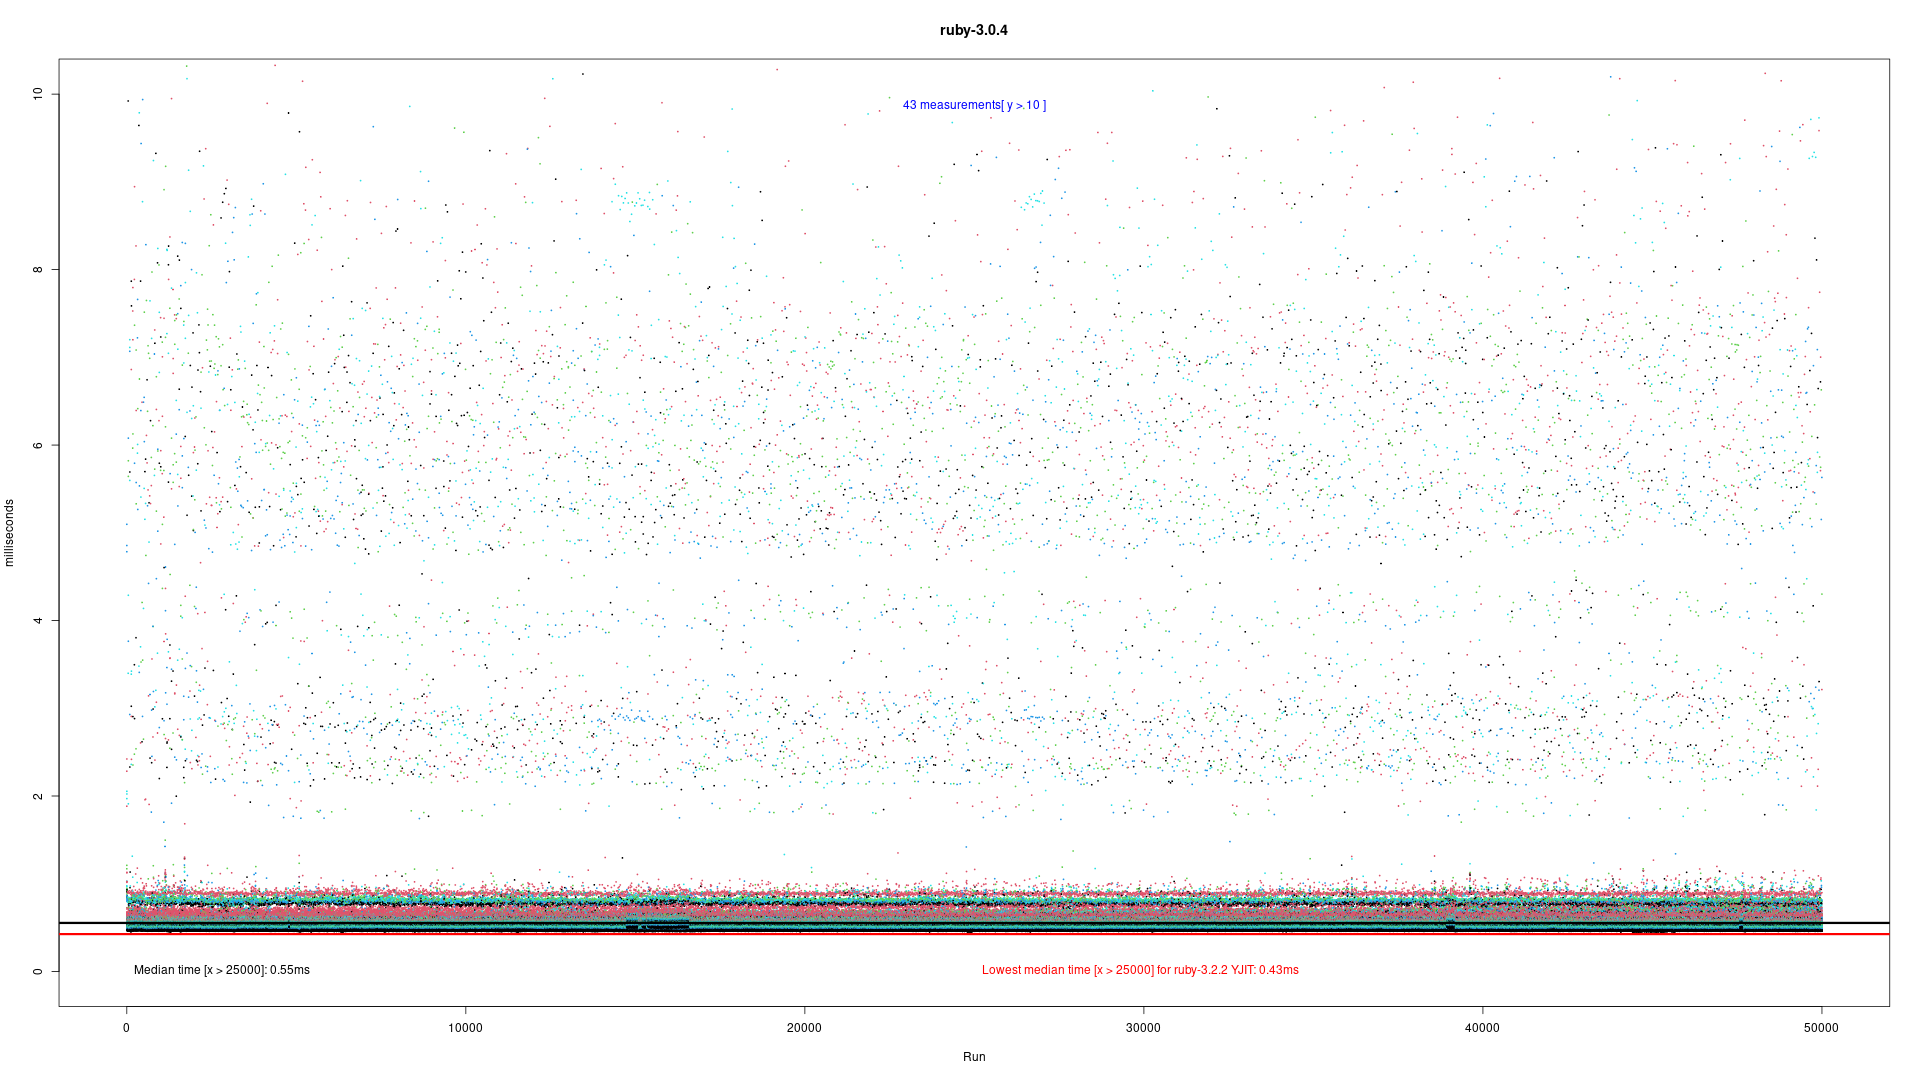
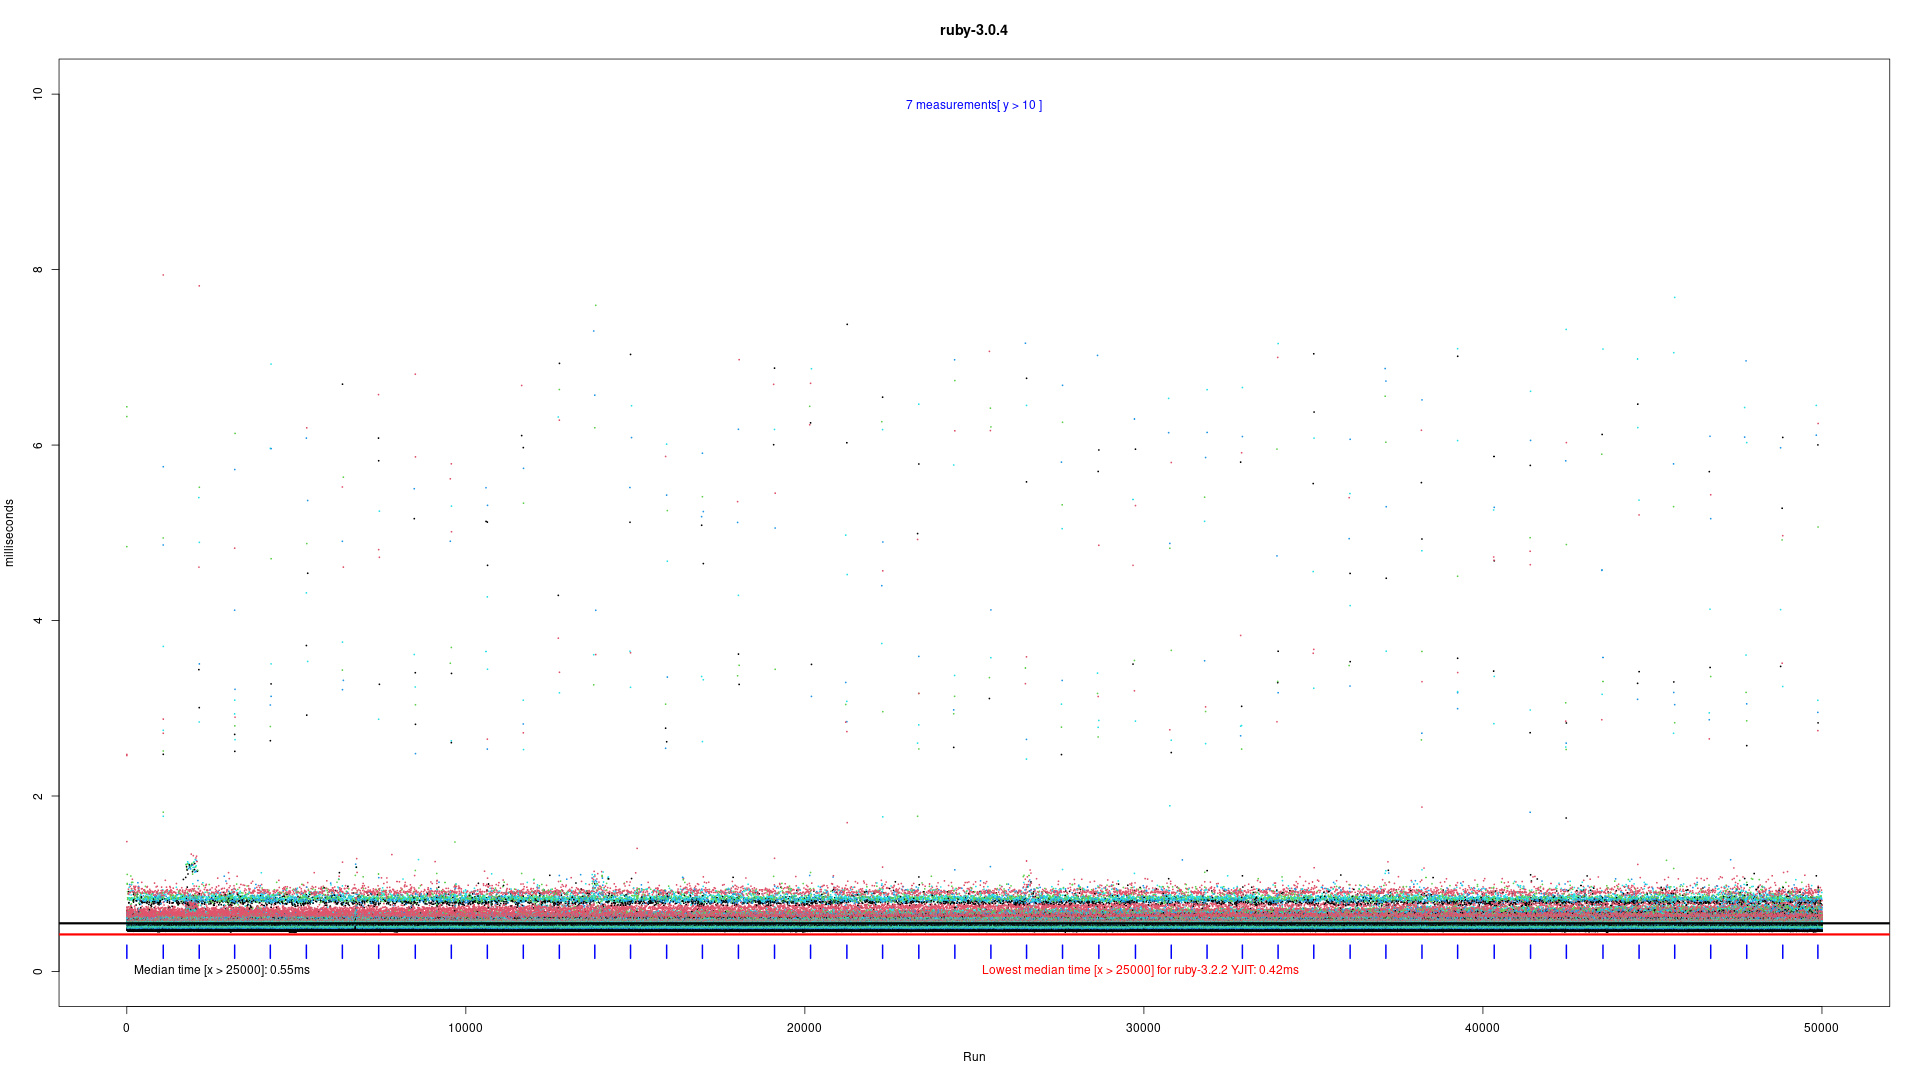
Updated results for Rodauth app MRI Rubies 3.0 - 3.3, added memory plots

Changed region(s): [[0.0625, 0.7944, 0.9688, 0.8861], [0.4688, 0.0917, 0.5312, 0.1222]]

diff --git a/data/rodauth/README.md b/data/rodauth/README.md
@@ -20,23 +20,23 @@ CPU: AuthenticAMD AMD Ryzen 7 5800X 8-Core Processor
 ## Tested Rubies
 | Ruby                      | JIT  | Mem start |   Mem end |   Runtime |      Mean |    Median |   Std.Dev |     Slow |   Errors |        N |  GC runs |
 | ------------------------- | ---- | --------: | --------: | --------: | --------: | --------: | --------: |--------: | -------: | -------: | -------: |
-| ruby-3.0.4                |      |      35Mb |      41Mb |      154s |    0.61ms |    0.55ms |    0.51ms |     4422 |        0 |   750000 |     1087 |
-| ruby-3.1.3                |      |      37Mb |      43Mb |      157s |    0.62ms |    0.56ms |    0.56ms |     5872 |        0 |   750000 |     1360 |
-| ruby-3.1.3                | YJIT |      47Mb |      62Mb |      149s |    0.59ms |    0.57ms |    0.19ms |      221 |        0 |   750000 |       49 |
-| ruby-3.2.2                |      |      37Mb |      52Mb |      124s |    0.49ms |    0.46ms |    0.13ms |       23 |        0 |   750000 |       19 |
-| ruby-3.2.2                | MJIT |      37Mb |      52Mb |      125s |    0.49ms |    0.46ms |    0.13ms |       30 |        0 |   750000 |       19 |
-| ruby-3.2.2                | YJIT |      38Mb |      58Mb |      114s |    0.45ms |    0.43ms |    0.17ms |       55 |        0 |   750000 |       22 |
-| ruby-3.3.0                |      |      41Mb |     133Mb |      139s |    0.55ms |    0.53ms |    0.13ms |        3 |        0 |   750000 |        0 |
-| ruby-3.3.0                | RJIT |      76Mb |     282Mb |      143s |    0.56ms |    0.49ms |    2.84ms |     5589 |        0 |   750000 |        1 |
-| ruby-3.3.0                | YJIT |      42Mb |     140Mb |      119s |    0.47ms |    0.46ms |    0.18ms |       12 |        0 |   750000 |        1 |
+| ruby-3.0.4                |      |      34Mb |      45Mb |      141s |    0.56ms |    0.55ms |    0.14ms |      184 |        0 |   750000 |       48 |
+| ruby-3.1.3                |      |      37Mb |      46Mb |      153s |     0.6ms |    0.56ms |    0.49ms |     3710 |        0 |   750000 |      983 |
+| ruby-3.1.3                | YJIT |      47Mb |      61Mb |      154s |    0.61ms |    0.59ms |    0.18ms |      253 |        0 |   750000 |       49 |
+| ruby-3.2.2                |      |      37Mb |      51Mb |      124s |    0.49ms |    0.47ms |    0.12ms |       20 |        0 |   750000 |       19 |
+| ruby-3.2.2                | MJIT |      37Mb |      51Mb |      125s |    0.49ms |    0.47ms |    0.12ms |       28 |        0 |   750000 |       19 |
+| ruby-3.2.2                | YJIT |      38Mb |      57Mb |      113s |    0.45ms |    0.42ms |    0.16ms |       43 |        0 |   750000 |       22 |
+| ruby-3.3.0                |      |      41Mb |     133Mb |      138s |    0.55ms |    0.53ms |    0.13ms |        4 |        0 |   750000 |        1 |
+| ruby-3.3.0                | RJIT |      82Mb |     295Mb |      142s |    0.55ms |    0.49ms |     2.9ms |     5233 |        0 |   750000 |        2 |
+| ruby-3.3.0                | YJIT |      42Mb |     139Mb |      119s |    0.48ms |    0.46ms |    0.18ms |       16 |        0 |   750000 |        1 |
 
 ## Winners
 
-- Ruby with lowest __slow__ response-count (> 5ms): __ruby-3.3.0__ (3x)
-- Ruby with lowest __median__* response-time: __ruby-3.2.2 YJIT__ (0.43ms)
-- Ruby with lowest __standard deviation__ response-time: __ruby-3.2.2 MJIT__ (0.13ms)
+- Ruby with lowest __slow__ response-count (> 5ms): __ruby-3.3.0__ (4x)
+- Ruby with lowest __median__* response-time: __ruby-3.2.2 YJIT__ (0.42ms)
+- Ruby with lowest __standard deviation__ response-time: __ruby-3.2.2__ (0.12ms)
 - Ruby with lowest __mean__* response-time: __ruby-3.2.2 YJIT__ (0.45ms)
-- Ruby with lowest __memory__ use: __ruby-3.0.4__ (41Mb)
+- Ruby with lowest __memory__ use: __ruby-3.0.4__ (45Mb)
 
 \* Mean and median are calculated after warmup (x > N/2).
 
@@ -46,11 +46,15 @@ CPU: AuthenticAMD AMD Ryzen 7 5800X 8-Core Processor
 
 ## Histograms of response-times of all tested Rubies
 Showing a single tested uri and the most occurring response-times after warmup (x > N/2)
-![Histograms of response-times of all tested Rubies](/data/rodauth/plots/rodauth_01_histogram.png "Histograms of response-times of all tested Rubies")
+![Histograms of response-times of all tested Rubies](/data/rodauth/plots/rodauth_0_histogram.png "Histograms of response-times of all tested Rubies")
+
+## Memory use of all tested Rubies
+Logged after a fixed interval of measurements (1,000). Each run is shown in a different color
+![Memory use of all tested Rubies](/data/rodauth/plots/rodauth_0_memory.png "Memory use of all tested Rubies")
 
 ## Scatter-plots
 These scatter-plots show the response time of individual calls as dots. Note that many dots may overlap each other.  
-Vertical blue lines near the X-axis indicate major garbage collection runs (of Run-ID 1, only when there are less than 100 GC runs).
+Vertical blue lines near the X-axis indicate major garbage collection runs (of Run-ID 1, but only when there are less than 100 GC runs).
 ## Response-times for: ruby-3.0.4
 ![Response-times for: ruby-3.0.4](/data/rodauth/plots/rodauth_1_ruby-3.0.4.png "Response-times for: ruby-3.0.4")
 
